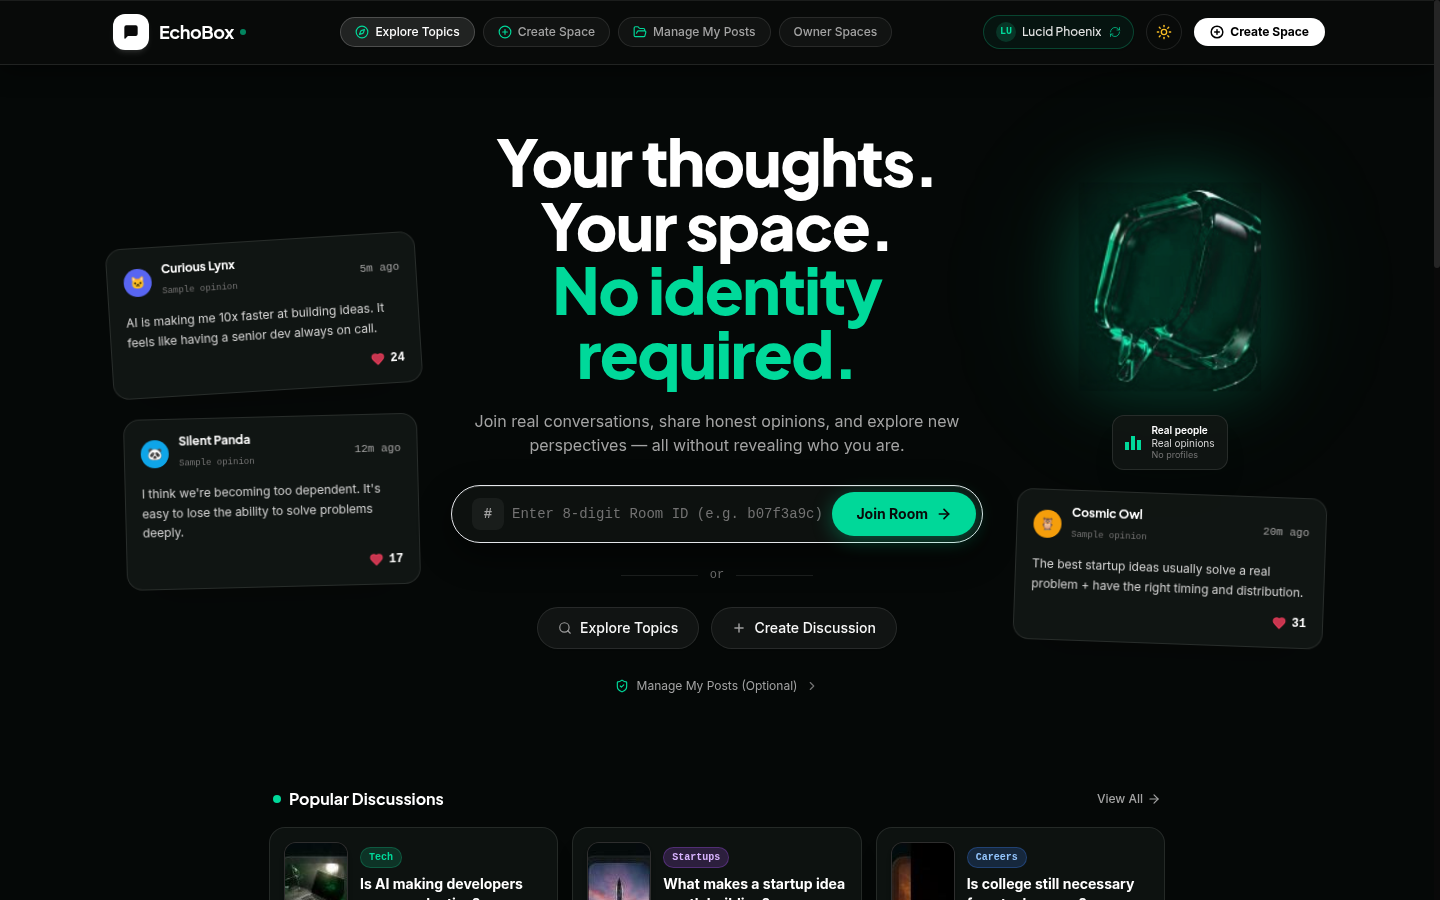
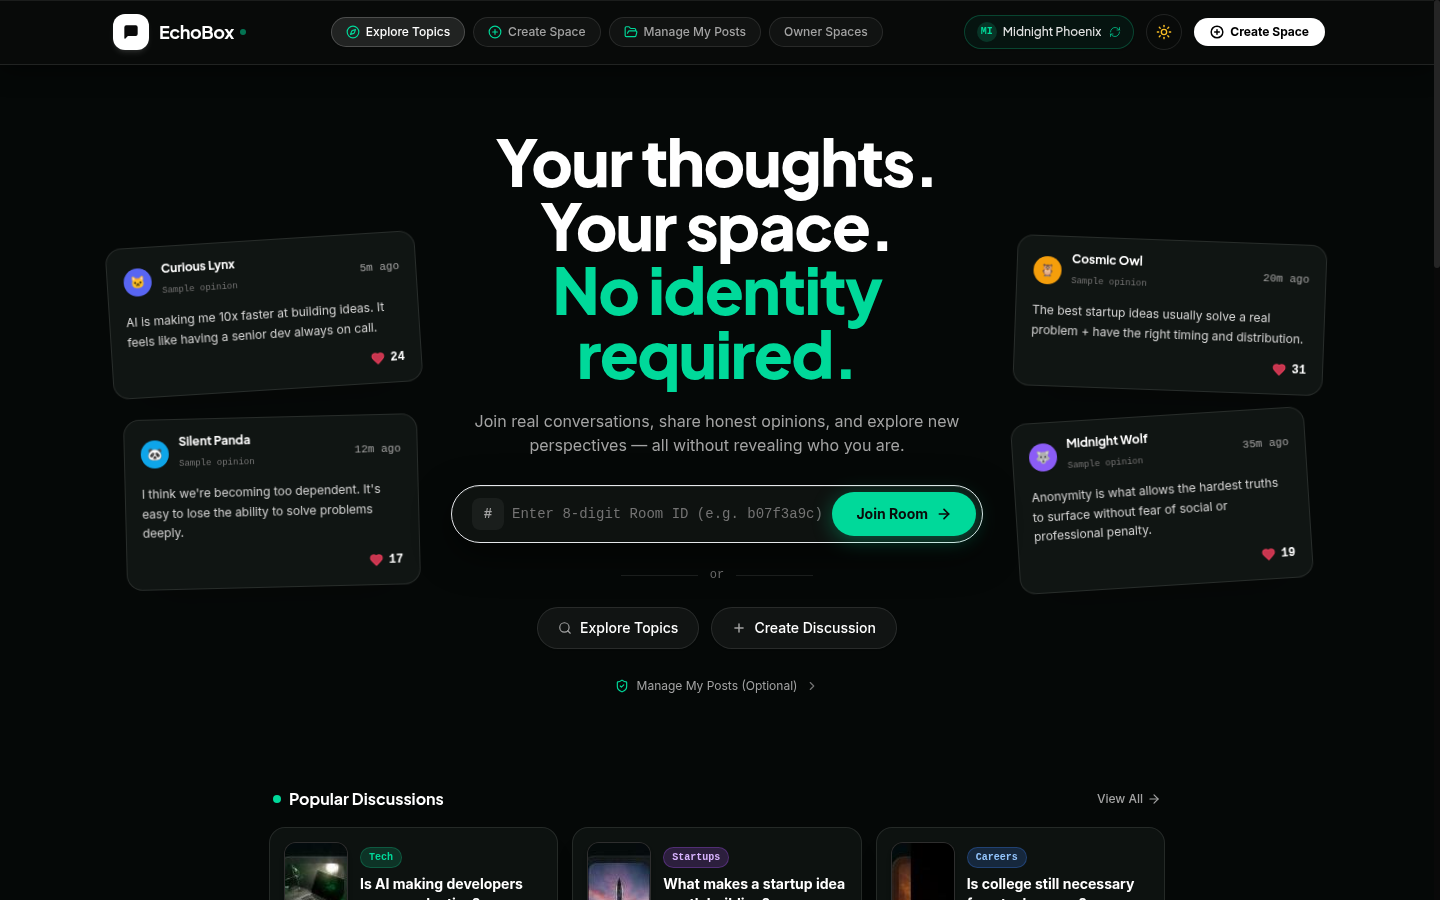
refactor(hero): remove 3D glass bubble sculpture and badge per feedback, balance desktop dialogue cards

diff --git a/src/components/landing/HeroSection.tsx b/src/components/landing/HeroSection.tsx
@@ -67,14 +67,16 @@ export const HeroSection: React.FC = () => {
     card1: 24,
     card2: 17,
     card3: 31,
+    card4: 19,
   });
   const [liked, setLiked] = useState({
     card1: false,
     card2: false,
     card3: false,
+    card4: false,
   });
 
-  const toggleLike = (key: 'card1' | 'card2' | 'card3') => {
+  const toggleLike = (key: 'card1' | 'card2' | 'card3' | 'card4') => {
     setLiked((prev) => {
       const isNowLiked = !prev[key];
       setLikes((l) => ({
@@ -411,35 +413,11 @@ export const HeroSection: React.FC = () => {
           </div>
 
           {/* ------------------------------------------------------- */}
-          {/* REGION 3: RIGHT VISUAL ELEMENTS (Desktop)               */}
+          {/* REGION 3: RIGHT FLOATING CONVERSATION CARDS (Desktop)   */}
           {/* ------------------------------------------------------- */}
-          <div className="hidden lg:flex flex-col items-center justify-center gap-6 relative select-none">
-            {/* Desktop 3D Glass Speech Bubble Sculpture with organic float */}
-            <div className="animate-float-sculpture pointer-events-none relative w-44 xl:w-52 h-44 xl:h-52 flex items-center justify-center">
-              <div className="absolute inset-0 bg-[#00D99A]/15 blur-3xl rounded-full" />
-              <img
-                src="/glass_bubble_transparent.png"
-                alt="3D Glass Bubble Sculpture"
-                className="w-full h-full object-contain relative z-10 drop-shadow-[0_0_35px_rgba(0,217,154,0.35)]"
-              />
-            </div>
-
-            {/* Floating Badge: Real people / Real opinions / No profiles */}
-            <div className="flex items-center gap-2.5 rounded-xl border border-white/10 bg-[#121614]/85 backdrop-blur-xl px-3 py-2 shadow-xl pointer-events-none">
-              <div className="flex items-end gap-0.5 h-3.5 text-[#00D99A]">
-                <span className="w-1 h-2 bg-[#00D99A] rounded-xs" />
-                <span className="w-1 h-3.5 bg-[#00D99A] rounded-xs" />
-                <span className="w-1 h-2.5 bg-[#00D99A] rounded-xs" />
-              </div>
-              <div className="text-[10px] leading-tight font-sans">
-                <div className="font-semibold text-white">Real people</div>
-                <div className="text-neutral-300">Real opinions</div>
-                <div className="text-neutral-500 text-[9px]">No profiles</div>
-              </div>
-            </div>
-
+          <div className="hidden lg:flex flex-col justify-center gap-6 relative select-none">
             {/* Desktop Card 3: Cosmic Owl with independent float */}
-            <div className="animate-float-3 hover-pause w-full">
+            <div className="animate-float-3 hover-pause">
               <div className="rounded-2xl border border-white/10 bg-[#121614]/85 backdrop-blur-xl p-4 shadow-2xl space-y-3 transition-all duration-300 hover:scale-[1.02] hover:border-[#00D99A]/40 hover:shadow-[0_12px_36px_rgba(0,0,0,0.6),0_0_20px_rgba(0,217,154,0.15)] cursor-default">
                 <div className="flex items-center justify-between">
                   <div className="flex items-center gap-2.5">
@@ -470,6 +448,43 @@ export const HeroSection: React.FC = () => {
                   >
                     <Heart className={`w-3.5 h-3.5 ${liked.card3 ? 'fill-current text-rose-500' : 'text-rose-500/80 fill-rose-500/80'}`} />
                     <span className="text-white text-xs font-bold">{likes.card3}</span>
+                  </button>
+                </div>
+              </div>
+            </div>
+
+            {/* Desktop Card 4: Midnight Wolf with independent float */}
+            <div className="animate-float-1 hover-pause pr-2 xl:pr-4">
+              <div className="rounded-2xl border border-white/10 bg-[#121614]/85 backdrop-blur-xl p-4 shadow-2xl space-y-3 transition-all duration-300 hover:scale-[1.02] hover:border-[#00D99A]/40 hover:shadow-[0_12px_36px_rgba(0,0,0,0.6),0_0_20px_rgba(0,217,154,0.15)] cursor-default">
+                <div className="flex items-center justify-between">
+                  <div className="flex items-center gap-2.5">
+                    <div className="w-7 h-7 rounded-full bg-[#8b5cf6] flex items-center justify-center text-white text-xs font-bold shadow-sm">
+                      🐺
+                    </div>
+                    <div>
+                      <span className="font-bold text-xs text-white font-display block leading-none">
+                        Midnight Wolf
+                      </span>
+                      <span className="text-[9px] text-neutral-500 font-mono">Sample opinion</span>
+                    </div>
+                  </div>
+                  <span className="text-[11px] text-neutral-400 font-mono">35m ago</span>
+                </div>
+
+                <p className="text-xs text-neutral-300 leading-relaxed font-normal">
+                  Anonymity is what allows the hardest truths to surface without fear of social or professional penalty.
+                </p>
+
+                <div className="flex items-center justify-end pt-0.5">
+                  <button
+                    type="button"
+                    onClick={() => toggleLike('card4')}
+                    className={`flex items-center gap-1.5 text-xs font-mono transition-colors ${
+                      liked.card4 ? 'text-rose-500' : 'text-neutral-400 hover:text-rose-400'
+                    }`}
+                  >
+                    <Heart className={`w-3.5 h-3.5 ${liked.card4 ? 'fill-current text-rose-500' : 'text-rose-500/80 fill-rose-500/80'}`} />
+                    <span className="text-white text-xs font-bold">{likes.card4}</span>
                   </button>
                 </div>
               </div>

diff --git a/src/components/common/GlassSurface.tsx b/src/components/common/GlassSurface.tsx
@@ -60,3 +60,4 @@ export const GlassSurface = React.forwardRef<HTMLDivElement, GlassSurfaceProps>(
 );
 
 GlassSurface.displayName = 'GlassSurface';
+

diff --git a/src/components/common/GlassButton.tsx b/src/components/common/GlassButton.tsx
@@ -73,3 +73,4 @@ export const GlassButton = React.forwardRef<HTMLButtonElement, GlassButtonProps>
 );
 
 GlassButton.displayName = 'GlassButton';
+

diff --git a/src/components/common/GlassInput.tsx b/src/components/common/GlassInput.tsx
@@ -76,3 +76,4 @@ export const GlassInput = React.forwardRef<HTMLInputElement, GlassInputProps>(
 );
 
 GlassInput.displayName = 'GlassInput';
+
